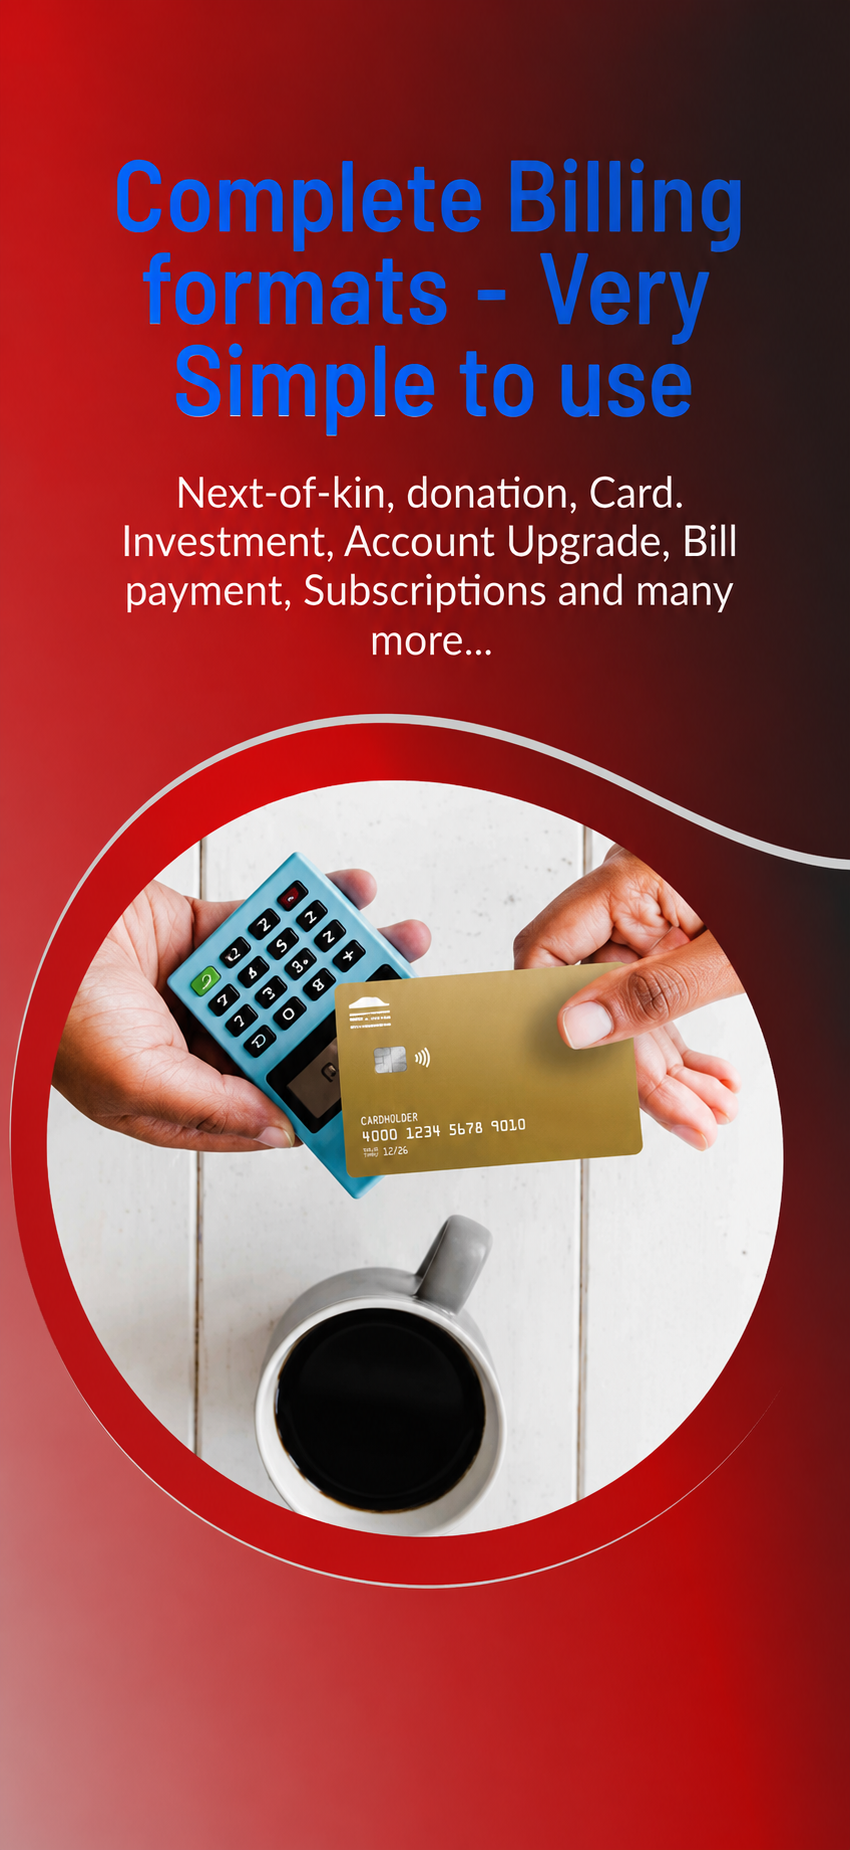
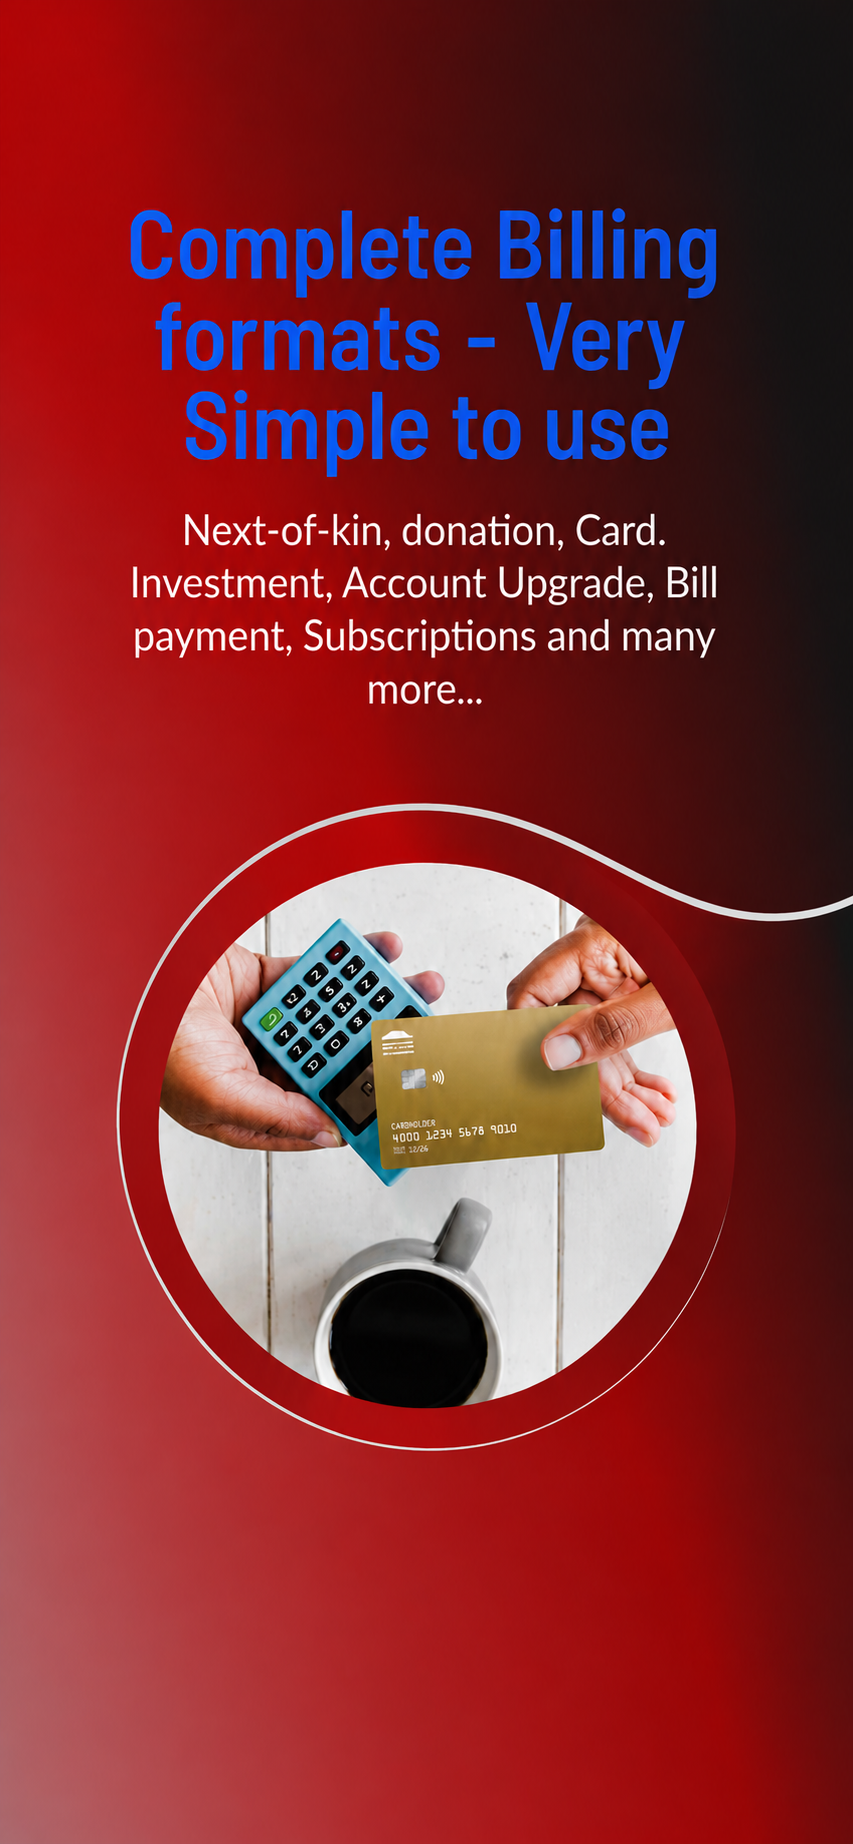
new

diff --git a/tenants-frontend/app/features/page.tsx b/tenants-frontend/app/features/page.tsx
@@ -1,30 +1,83 @@
-// app/features/page.tsx
+"use client";
 
+import { useState } from "react";
 import Image from "next/image";
-import Link from "next/link";
-import { ArrowRight } from "lucide-react";
+import { ArrowRight, Menu, X } from "lucide-react";
 
-export default function FeaturesPage() {
+export default function BillingFormatsSection() {
+  const [menuOpen, setMenuOpen] = useState(false);
+
+  const menuItems = ["Home", "About", "Services", "Contact"];
+
   return (
-    <main className="relative h-[100dvh] overflow-hidden bg-black lg:hidden">
-      <Image
-        src="/images/homepage2.png"
-        alt="Complete Billing Formats"
-        fill
-        priority
-        sizes="100vw"
-        className="object-cover object-top"
-      />
+    <section className="relative flex min-h-screen flex-col items-center justify-between overflow-hidden"
+      style={{
+        background:
+          "radial-gradient(ellipse 131.15% 204.96% at 0% 100%, #BBBBBB 11%, rgba(255, 0, 0, 0.60) 66%, rgba(0, 0, 0, 0.10) 100%)",
+      }}
+    >
+      {/* Navbar */}
+      <div className="absolute left-0 top-0 z-30 w-full rounded-b-lg bg-white px-6 py-3">
+        <div className="flex items-center justify-between">
+          <span className="font-lato text-sm font-bold text-black/80">
+            ZentraBank
+          </span>
 
-      <div className="absolute bottom-8 left-1/2 z-20 -translate-x-1/2">
-        <Link
-          href="/login"
-          className="flex h-[52px] w-[240px] items-center justify-center gap-3 rounded-2xl bg-[var(--primary)] text-sm font-semibold text-white shadow-2xl"
-        >
-          See more
-          <ArrowRight size={18} />
-        </Link>
+          <button
+            type="button"
+            onClick={() => setMenuOpen(!menuOpen)}
+            className="flex h-9 w-9 items-center justify-center rounded-lg bg-black/5 text-black/80"
+            aria-label="Open menu"
+          >
+            {menuOpen ? <X size={22} /> : <Menu size={22} />}
+          </button>
+        </div>
+
+        {menuOpen && (
+          <div className="mt-4 flex flex-col gap-2 border-t border-black/10 pt-3">
+            {menuItems.map((item) => (
+              <button
+                key={item}
+                type="button"
+                className="rounded-lg px-3 py-2 text-left font-lato text-sm font-semibold text-black/80 hover:bg-black/5"
+              >
+                {item}
+              </button>
+            ))}
+          </div>
+        )}
       </div>
-    </main>
+      {/* Heading */}
+        <h1 className="absolute left-6 top-[104px] w-[345px] text-center font-heading text-[38px] font-semibold leading-[42px] tracking-[1px] text-blue-700 [text-shadow:_0px_1px_0px_rgb(255_255_255_/_1)]">
+        Complete Billing formats - Very Simple to use
+        </h1>
+
+        {/* Text */}
+        <p className="absolute left-[43px] top-[275px] w-[308px] text-center font-body text-[20px] font-semibold leading-[24px] tracking-[0.2px] text-white">
+        Next-of-kin, donation, Card, Investment, Account Upgrade, Bill payment,
+        Subscriptions and many more...
+        </p>
+
+        {/* Middle Image */}
+<div className="mt-80 flex justify-center translate-y-10">
+  <div className="h-[220px] w-[220px] rounded-full bg-red-600 p-4">
+    <Image
+      src="/images/billing-formats.png"
+      alt="Billing formats"
+      width={190}
+      height={190}
+      className="h-full w-full rounded-full object-cover"
+    />
+  </div>
+</div>
+
+{/* Button */}
+<div className="mt-8 flex justify-center pb-10">
+  <button className="flex w-[250px] items-center justify-center gap-2.5 rounded-xl bg-blue-800 px-4 py-3 text-white shadow-[inset_0px_0px_4px_rgba(0,0,0,0.10)]">
+    <span className="font-roboto text-base font-medium">See more</span>
+    <ArrowRight size={18} />
+  </button>
+</div>
+    </section>
   );
 }
